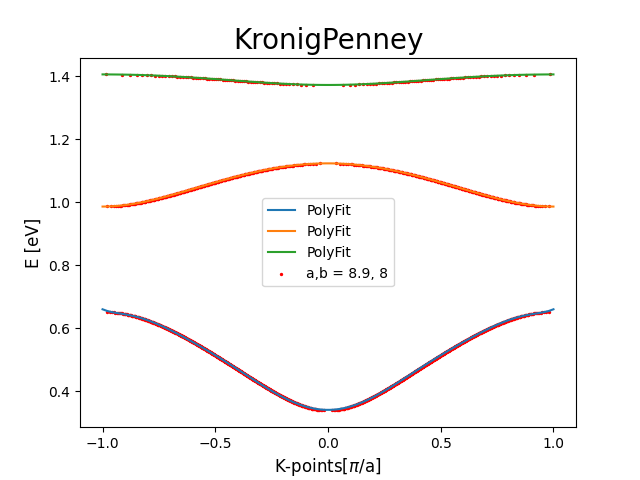
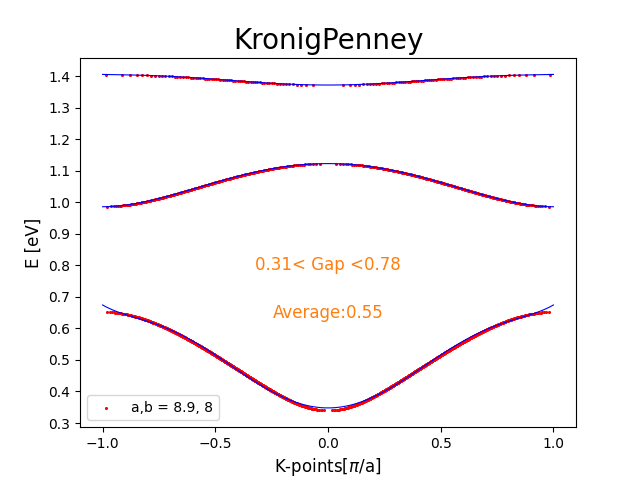
Average and fir by py

diff --git a/KronigPenneymodel.c b/KronigPenneymodel.c
@@ -20,6 +20,7 @@ double h_bar = 1;
 double m_e = 1;
 double e_const = 1;
 int bandNumber = 5;
+int poly_degree= 6;
 
 double cos_K_E(double a, double b, double v0, double E)
 {
@@ -87,12 +88,9 @@ void printMatrix(int m, int n, double matrix[m][n])
 void fit(int k_point, double x[k_point], double y[k_point], FILE *file)
 {
     int i, j;
-
-    // the degree of polynomial to be used:
-    int n = 10;
     // an array of size 2*n+1 for storing N, Sig xi, Sig xi^2, ...., etc. which are the independent components of the normal matrix
-    double X[2 * n + 1];
-    for (i = 0; i <= 2 * n; i++)
+    double X[2 * poly_degree + 1];
+    for (i = 0; i <= 2 * poly_degree; i++)
     {
         X[i] = 0;
         for (j = 0; j < k_point; j++)
@@ -101,10 +99,10 @@ void fit(int k_point, double x[k_point], double y[k_point], FILE *file)
         }
     }
     // the normal augmented matrix
-    double B[n + 1][n + 2];
+    double B[poly_degree + 1][poly_degree + 2];
     // rhs
-    double Y[n + 1];
-    for (i = 0; i <= n; i++)
+    double Y[poly_degree + 1];
+    for (i = 0; i <= poly_degree; i++)
     {
         Y[i] = 0;
         for (j = 0; j < k_point; j++)
@@ -112,27 +110,27 @@ void fit(int k_point, double x[k_point], double y[k_point], FILE *file)
             Y[i] = Y[i] + pow(x[j], i) * y[j];
         }
     }
-    for (i = 0; i <= n; i++)
+    for (i = 0; i <= poly_degree; i++)
     {
-        for (j = 0; j <= n; j++)
+        for (j = 0; j <= poly_degree; j++)
         {
             B[i][j] = X[i + j];
         }
     }
-    for (i = 0; i <= n; i++)
+    for (i = 0; i <= poly_degree; i++)
     {
-        B[i][n + 1] = Y[i];
+        B[i][poly_degree + 1] = Y[i];
     }
-    double A[n + 1];
-    // printMatrix(n + 1, n + 2, B);
-    gaussEliminationLS(n + 1, n + 2, B, A);
+    double A[poly_degree + 1];
+    // printMatrix(poly_degree + 1, poly_degree + 2, B);
+    gaussEliminationLS(poly_degree + 1, poly_degree + 2, B, A);
 
-    for (i = 0; i <= n; i++)
+    for (i = 0; i <= poly_degree; i++)
     {
-        printf("%lfx^%d\t+\t", A[i], i);
+        //printf("%lfx^%d\t+\t", A[i], i);
         fprintf(file, "%lf\t", A[i]);
     }
-    printf("...\n\n");
+    //printf("...\n\n");
     fprintf(file, "\n");
 }
 int main(int argc, char *argv[])
@@ -209,7 +207,7 @@ int main(int argc, char *argv[])
             x[k] = E_k[i][k][1];
             y[k] = E_k[i][k][0];
         }
-        printf("The polynomial fit band #%d:\n", i);
+        //printf("The polynomial fit band #%d:\n", i);
 
         fit(k_points[i], x, y, polynum);
     }

diff --git a/plot.py b/plot.py
@@ -1,3 +1,5 @@
+from telnetlib import GA
+from turtle import color
 import matplotlib.pyplot as plt
 import numpy as np
 from pyparsing import line
@@ -9,13 +11,10 @@ K = []
 poly_coeff = []
 
 
-def PolyCoefficients(x, coeffs):
-    print('# This is a polynomial of order:', len(coeffs))
-    y = []
-    for x0 in range(len(x)):
-        y.append(0)
-        for i in range(len(coeffs)):
-            y[x0] += coeffs[i] * x[x0]**i
+def PolyNoms(x, coeffs):
+    y =0
+    for i in range(len(coeffs)):
+        y += coeffs[i] * x**i
 
     return y
 
@@ -32,19 +31,38 @@ for row in band:
 line_polynum = [line.split("\t") for line in polynum]
 for line in line_polynum:
     poly_coeff.append([float(x) for x in line[:-1]])
-print(poly_coeff)
 
 
-x = np.linspace(-1, 1, 100)
-for co_i in poly_coeff:
-    plt.plot(x, PolyCoefficients(x, co_i), label="PolyFit")
+k_points = np.linspace(-1, 1, 100)
+bands= []
+for co_i in range(len(poly_coeff)):
+    bands.append([])
+    for k in k_points:
+        bands[-1].append(PolyNoms(k,poly_coeff[co_i]))
 
-plt.scatter(K, E, color='r', s=2, label='a,b = 8.9, 8')
+for band in bands:
+    plt.plot(k_points, band, 'b-',linewidth=0.8)
+
+
+def gap(k, m=0,n=1):
+    return PolyNoms(k,poly_coeff[n]) -PolyNoms(k,poly_coeff[m])
+
+Gaps = []
+for k in k_points:
+    Gaps.append( gap(k) )
+print(np.average(Gaps))
+#print(sum(gap)/len(gap))
+plt.scatter(K, E, color='r', s=1.5, label="a,b = 8.9, 8")
 plt.xlabel(r'K-points[${\pi}$/a]', fontsize=12)
 plt.ylabel('E [eV]', fontsize=12)
+#print(Gaps)
+text_kwargs = dict(ha='center', va='center', fontsize=12, color='C1')
+plt.text(0.0, 0.8, '{}< Gap <{}'.format(round(min(Gaps),2),round(max(Gaps),2)), **text_kwargs)
+plt.text(0.0, 0.65, 'Average:{}'.format(round(np.average(Gaps),2)), **text_kwargs)
 
 plt.title('KronigPenney', fontsize=20)
 plt.xticks(np.arange(-1.0, +1.01, .5))
+plt.yticks(np.arange(0.3, +1.5, .1))
 plt.legend()
 plt.savefig("band.png")
 # plt.show()
